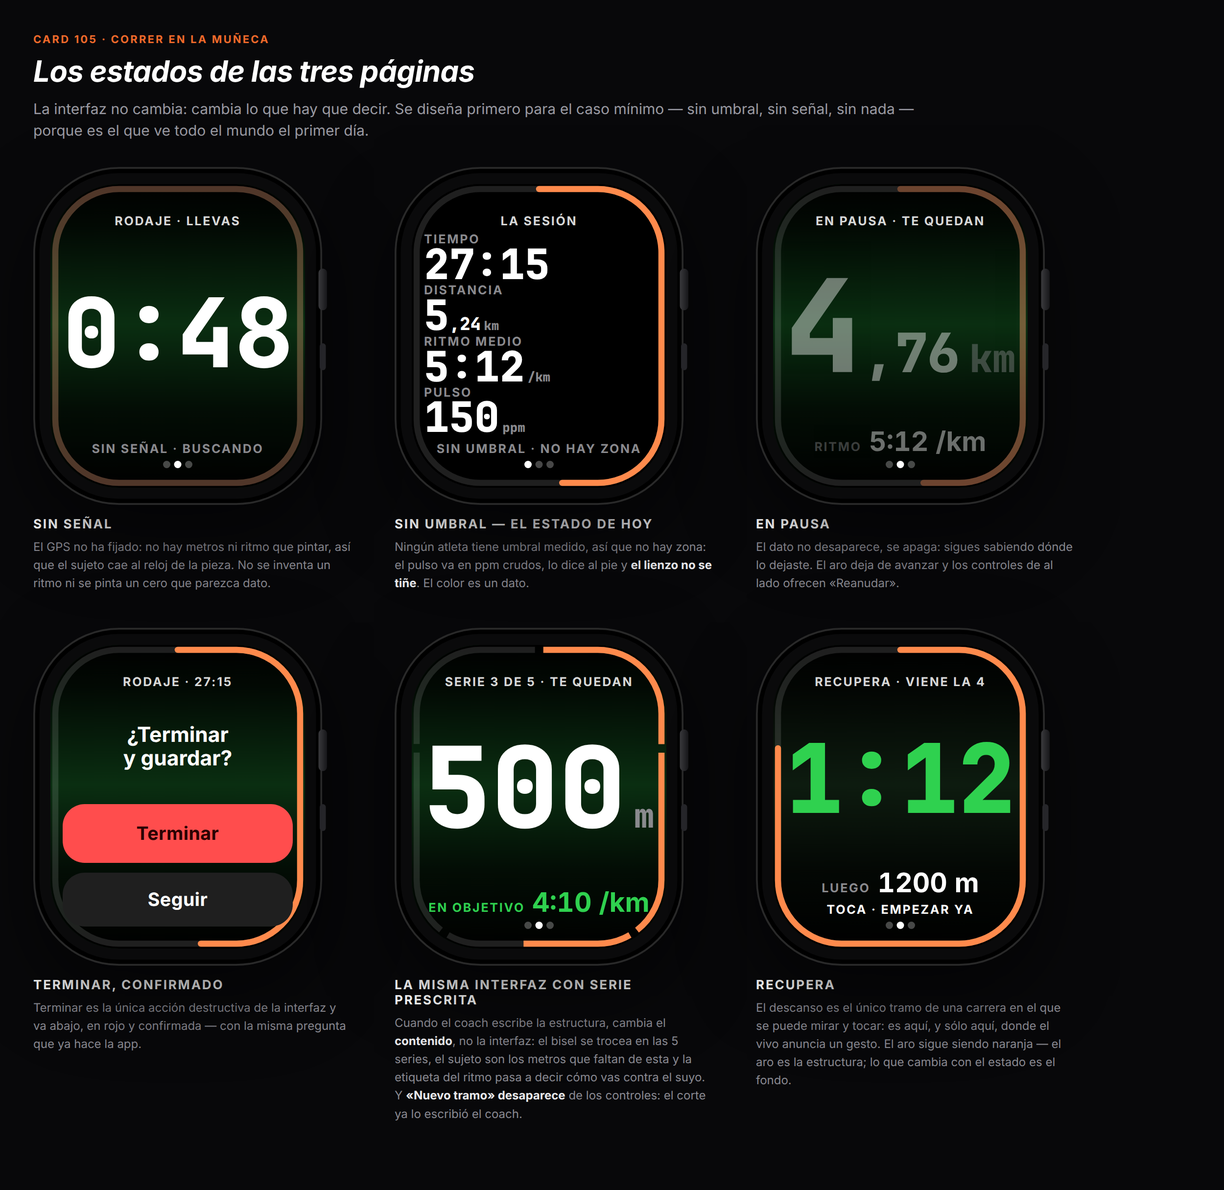
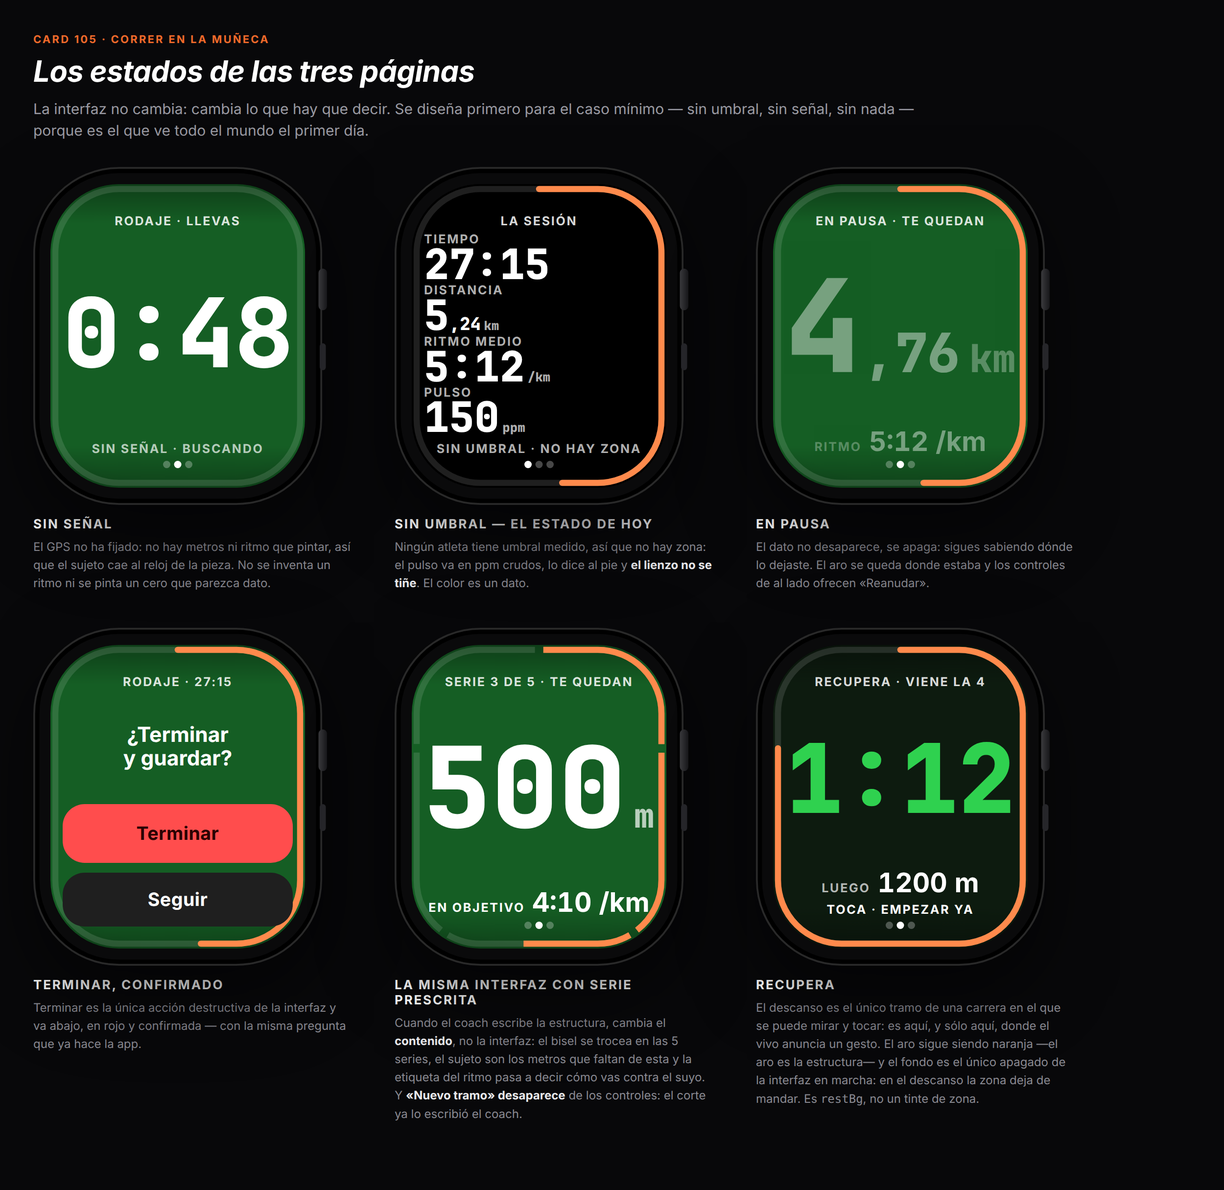
fix(mocks): la zona ES el lienzo — relleno plano al 45 %, no un degradado
Alex: el fondo de zona no se lee. Tenía razón, y mi diagnóstico anterior estaba
al revés: bajé el tinte del 38 % del kit al 22 % cuando lo que apagaba el color
era el DEGRADADO, que va a negro puro arriba y abajo y deja el color vivo sólo
en una franja estrecha del centro — justo donde va el numeral, que la tapa.
Bajar el porcentaje encima de eso apagó el único sitio donde el color quedaba.

Ahora: relleno PLANO al 45 % y del negro queda una viñeta (esquinas, donde la
curva del bisel se come el lienzo, y las dos bandas de versales).

El 45 % es un techo medido, no un gusto: lo pone el ámbar de la Z4, porque el
aro del bisel tiene que mantener 3:1 contra el lienzo y ahí se queda en 3,09
(al 55 % cae a 2,30 y el aro desaparece). Con ese mismo 45 % el numeral blanco
va de 7,9:1 sobre el verde a 12,3:1 sobre el azul. Las cinco zonas van ahora en
una tira de la primera lámina, porque el criterio era que se distinguieran de un
vistazo y las capturas sólo enseñan la Z3 del escenario: sin verlas no hay forma
de comprobarlo.

Un lienzo con color obliga a tres arreglos que antes no hacían falta, porque
todo estaba calibrado contra el negro. No son decisiones nuevas: son lo que la
zona fuerte deja ilegible.

- el gris #8A8A8E de WatchTheme se queda en 2,29:1 sobre la Z3 y la unidad y las
  versales dejan de leerse. Un gris fijo no puede vivir sobre un fondo que
  cambia de color: el cromo pasa a blanco con alfa (0,70), ~5,5:1 contra las
  cinco zonas y 10,5:1 sobre negro.
[…]

diff --git a/docs/mocks/tools/reloj-correr.py b/docs/mocks/tools/reloj-correr.py
@@ -30,7 +30,13 @@ import time
 BG = "#000000"
 SURFACE_RAISED = "#1F1F1F"
 INK = "#FFFFFF"
-DIM = "#8A8A8E"
+# El gris secundario de WatchTheme (#8A8A8E) vale sobre negro y NO vale sobre un
+# lienzo teñido: sobre el verde de la Z3 al 45 % se queda en 2,29:1 y la unidad y
+# las versales dejan de leerse — el mismo «no se lee de un vistazo» que motivó el
+# relleno fuerte. Un gris fijo no puede vivir sobre un fondo que cambia de color,
+# así que el cromo pasa a ser BLANCO con alfa: mantiene 5,5:1 contra las cinco
+# zonas y 10,5:1 sobre negro, sin dejar de pesar menos que el dato (§4).
+DIM = "rgba(255,255,255,0.70)"
 ORANGE = "#F06A2A"       # la acción
 ORANGE_SOFT = "#FF8A4C"  # el aro: pasa el 3:1 contra las cinco zonas, el de marca no
 ZONE_GREEN = "#2FD14F"   # Z3 «medio» — la única zona que sale en estas láminas
@@ -61,21 +67,32 @@ VERSALES_TRACKING = 1.1
 AVANCE_VERSAL = 0.72
 SEGUNDO_BASE = 22
 
-# El degradado que mete el tinte en una banda central: negro donde corre el aro
-# y negro al pie, donde viven las versales.
+# EL RELLENO DE ZONA — plano y fuerte, no una banda que se desvanece.
+#
+# La primera versión de estas láminas bajó el tinte del 38 % del kit al 22 %
+# porque «no se leía como un tinte ambiente». Diagnóstico equivocado: lo que no
+# dejaba leer la zona era el DEGRADADO, que iba a negro puro arriba y abajo y
+# dejaba el color vivo sólo en una franja estrecha del centro — justo donde va el
+# numeral, que lo tapa. Bajar el porcentaje encima de eso apagó el único sitio
+# donde el color aún existía. Se corrige por la raíz: relleno PLANO al 45 % y el
+# negro reducido a una viñeta.
+#
+# Por qué 45 y no más: el techo NO es de gusto, lo pone el ámbar de la Z4. El aro
+# del bisel (#FF8A4C) tiene que mantener 3:1 contra el lienzo porque es un
+# elemento gráfico que hay que entender, y sobre ámbar al 45 % se queda en 3,09:1
+# — al 55 % cae a 2,30 y el aro desaparece. Con ese mismo 45 %, el numeral blanco
+# va de 7,9:1 (verde) a 12,3:1 (azul), y las cinco zonas quedan a un vistazo:
+# Z2 #133173 · Z3 #159438 · Z4 #73511D · Z5 #732222 · Z1 #3E3E40.
+TINTE_MAX = 45
+
+# La viñeta: oscurece las esquinas (donde la curva del bisel se come el lienzo) y
+# las dos bandas de versales, y deja el cuerpo de la pantalla PLANO. Es lo que
+# queda del degradado de antes: contraste donde hace falta, sin apagar el color.
 DEGRADADO = (
-    "linear-gradient(180deg,#000 0%,rgba(0,0,0,0.80) 14%,"
-    "rgba(0,0,0,0) 46%,rgba(0,0,0,0.72) 74%,#000 100%)"
+    "radial-gradient(128% 96% at 50% 46%,rgba(0,0,0,0) 54%,rgba(0,0,0,0.34) 100%),"
+    "linear-gradient(180deg,rgba(0,0,0,0.34) 0%,rgba(0,0,0,0) 13%,"
+    "rgba(0,0,0,0) 86%,rgba(0,0,0,0.30) 100%)"
 )
-# El kit fija TINTE_MAX = 38 %, y a pantalla completa eso NO es «un tinte
-# ambiente, oscuro y saturado apenas» (CONTRATO-UI §10.1): el verde de la Z3 a
-# 38 % sobre negro da #12501E, que es un fondo verde con letras encima y encima
-# se parece al verde del propio dato de zona, así que el color deja de
-# discriminar. A 22 % el fondo sigue diciendo la zona de reojo y el numeral
-# sigue siendo lo único claro de la pantalla. Es un hallazgo de esta lámina, y
-# está anotado en la PR: el 38 % del kit nunca se había mirado a tamaño real,
-# porque las nueve vistas del doble van todas sin ancla.
-TINTE_MAX = 22
 
 AVANCE_SANS = {":": 0.32, ".": 0.30, ",": 0.30, " ": 0.28, "·": 0.34,
                "×": 0.60, "—": 0.62, "-": 0.35, "/": 0.40, "~": 0.60}
@@ -276,6 +293,17 @@ def aro_continuo(queda: float, *, color: str = ORANGE_SOFT) -> str:
     )
 
 
+def aro_vacio() -> str:
+    """Sólo el carril: no se sabe cuánto queda, y no se insinúa un progreso.
+
+    Antes esto era un aro naranja al 22 % de alfa, que sobre negro se leía como
+    «apagado» y sobre un lienzo teñido no se lee de ninguna manera: un traslúcido
+    calibrado contra el negro deja de significar nada en cuanto el fondo tiene
+    color. El carril dice lo mismo y no depende del fondo.
+    """
+    return _svg(f'<path d="{TRAZADO}" fill="none" stroke="{VIA}" stroke-width="{GROSOR}"/>')
+
+
 def aro_segmentado(total: int, hechas: int, fraccion: float) -> str:
     hueco, paso = 7, PERIMETRO / total
     largo = paso - hueco
@@ -380,8 +408,12 @@ def pagina_datos(*, con_zona: bool = True, activa: int = 0) -> str:
             _fallo(f"la fila «{etiqueta}» mide {ancho:.0f} pt sobre {ANCHO_UTIL}")
         marca = ""
         if chip:
+            # El nombre de la zona va en BLANCO, no en el color de la zona: el
+            # lienzo ya ES ese color, así que escribirlo encima de sí mismo lo
+            # borra (verde sobre verde = 3,9:1 y de la misma tinta). El color lo
+            # dice el fondo; la etiqueta dice las palabras.
             marca = (f'<span style="font-family:var(--sans);font-size:11.5px;font-weight:800;'
-                     f'letter-spacing:0.3px;color:{ZONE_GREEN};margin-left:8px;'
+                     f'letter-spacing:0.3px;color:{INK};margin-left:8px;'
                      f'padding-bottom:2px">{chip}</span>')
         html.append(
             f'<div style="width:100%;display:flex;flex-direction:column;align-items:flex-start">'
@@ -398,22 +430,24 @@ def pagina_datos(*, con_zona: bool = True, activa: int = 0) -> str:
 
 def pagina_vivo(*, contexto: str = "rodaje · te quedan", sujeto: str = "4,76",
                 unidad: str = "km", ritmo: str = "5:12 /km", nota: str = "",
-                juicio: str = "", tono_juicio: str = ZONE_GREEN,
-                opacidad: float = 1.0, activa: int = 1) -> str:
+                juicio: str = "", opacidad: float = 1.0, activa: int = 1) -> str:
     """Lo que FALTA de la pieza que tienes delante. Cero controles: corriendo no se toca.
 
     El JUICIO ocupa el hueco de la etiqueta, no una tercera línea ni un apéndice
     del valor: sin objetivo la etiqueta dice «ritmo» y con objetivo dice cómo vas.
-    Así el veredicto es una palabra Y un color, y sigue habiendo un solo segundo
-    nivel — «ritmo 4:10 /km · En objetivo» mide 195 pt y se recortaba.
+    Así sigue habiendo un solo segundo nivel — «ritmo 4:10 /km · En objetivo» mide
+    195 pt y se recortaba.
+
+    Y el veredicto es una PALABRA, no un color: mientras el lienzo lleve la zona de
+    pulso, en esta pantalla no puede hablar en color nada más. Un «en objetivo»
+    verde sobre un lienzo verde no se lee, y con la zona en ámbar o en rojo el
+    mismo verde diría dos cosas a la vez.
     """
     alto = alto_sujeto(sujeto, unidad, segundo=bool(ritmo), nota=bool(nota), puntos=True)
     seg = ""
     if ritmo:
-        seg = segundo_nivel(ritmo, etiqueta=juicio or "ritmo",
-                            color=tono_juicio if juicio else INK,
-                            tono_etiqueta=tono_juicio if juicio else DIM,
-                            opacidad=opacidad)
+        seg = segundo_nivel(ritmo, etiqueta=juicio or "ritmo", color=INK,
+                            tono_etiqueta=INK if juicio else DIM, opacidad=opacidad)
     return (versales(contexto, tono="rgba(255,255,255,0.85)")
             + '<span style="flex:1"></span>'
             + numeral(sujeto, unidad, alto=alto, opacidad=opacidad)
@@ -438,8 +472,13 @@ def pagina_controles(*, pausado: bool = False, activa: int = 2) -> str:
     botones = [
         _boton("Reanudar" if pausado else "Pausar", alto=altos[0], fondo=ORANGE, color="#160800"),
         _boton("Nuevo tramo", alto=altos[1], fondo=SURFACE_RAISED, color=INK),
-        _boton("Terminar", alto=altos[2], fondo="rgba(255,77,77,0.14)", color=ZONE_RED,
-               borde="box-shadow:inset 0 0 0 1.5px rgba(255,77,77,0.45);"),
+        # Los tres botones son OPACOS. El rojo traslúcido de la primera versión
+        # (14 % sobre negro) dejaba pasar el lienzo: sobre la zona en verde el
+        # botón salía oliva y su texto rojo se quedaba en 1,32:1. Estos dos hexes
+        # son exactamente lo que aquel traslúcido daba sobre negro, así que el
+        # botón se ve igual que antes y ahora no depende de la zona.
+        _boton("Terminar", alto=altos[2], fondo="#240B0B", color=ZONE_RED,
+               borde="box-shadow:inset 0 0 0 1.5px #732323;"),
     ]
     return (versales("en pausa · 27:15" if pausado else "rodaje · 27:15",
                      tono="rgba(255,255,255,0.85)")
@@ -541,6 +580,31 @@ def render(html: str, salida: str, ancho: int, alto: int, escala: int = 3) -> No
 ARO_RODAJE = aro_continuo(QUEDA)
 
 
+def tira_zonas() -> str:
+    """Las cinco zonas con el relleno de verdad, para poder juzgar de un vistazo.
+
+    Está aquí porque el criterio de la card es que Z2/Z3/Z4 se distingan corriendo,
+    y las láminas enseñan sólo la Z3 del escenario: sin la tira no hay forma de
+    comprobarlo. Es una leyenda, no una pantalla.
+    """
+    zonas = [(1, "#8A8A8E", "muy suave"), (2, "#2A6CFF", "suave"), (3, ZONE_GREEN, "medio"),
+             (4, "#FFB340", "fuerte"), (5, ZONE_RED, "máximo")]
+    chips = []
+    for n, hue, nombre in zonas:
+        relleno = f"color-mix(in srgb,{hue} {TINTE_MAX}%,{BG})"
+        chips.append(
+            f'<div style="width:108px">'
+            f'<div style="height:52px;border-radius:14px;background:{relleno};'
+            f'display:flex;align-items:center;justify-content:center;gap:7px">'
+            f'<span style="font-family:var(--mono);font-size:19px;font-weight:800;color:#fff">'
+            f'Z{n}</span>'
+            f'<span style="width:16px;height:3px;border-radius:2px;background:{ORANGE_SOFT}"></span>'
+            f'</div>'
+            f'<div class="gesto" style="margin-top:5px;text-align:center">{nombre}</div></div>'
+        )
+    return (f'<div style="display:flex;align-items:flex-start;gap:10px">{"".join(chips)}</div>')
+
+
 def lamina_hoja() -> tuple[str, int, int]:
     esc = 1.5
     cols = []
@@ -579,7 +643,21 @@ def lamina_hoja() -> tuple[str, int, int]:
 <div style="margin-top:26px;display:flex;align-items:flex-start;gap:22px">
  {cols[0]}{flecha}{cols[1]}{flecha}{cols[2]}
 </div>
-<div class="pie" style="margin-top:26px">
+<div style="margin-top:26px;display:flex;gap:34px;align-items:flex-start">
+ <div>{tira_zonas()}</div>
+ <div class="pie" style="max-width:640px">
+  <b>El relleno es la zona, plano y al 45 %.</b> El tope no es de gusto: lo pone el ámbar de la
+  Z4, porque el aro naranja tiene que mantener 3:1 contra el lienzo y ahí se queda en 3,09
+  (al 55 % cae a 2,30 y el aro desaparece). Con ese mismo 45 % el numeral blanco va de 7,9:1
+  sobre el verde a 12,3:1 sobre el azul. Del degradado de antes queda una <b>viñeta</b>: negro
+  en las esquinas, donde la curva del bisel se come el lienzo, y en las dos bandas de versales.
+  <br/><br/>
+  Y mientras el lienzo lleve la zona, <b>en esta pantalla no habla en color nada más</b>: el
+  veredicto del ritmo es una palabra, porque un «en objetivo» verde sobre un lienzo verde no se
+  lee y sobre uno ámbar diría dos cosas a la vez.
+ </div>
+</div>
+<div class="pie" style="margin-top:22px">
  <b>De dónde salen los números.</b> Rodaje de 10 km a los 5.240 m: ejecución 145 del atleta 66
  (10.000 m a 5:12/km, FC media 150 ppm). El tiempo y los metros que faltan se derivan de ahí.
  <b>La zona es la única excepción</b>, y va marcada: sale de un umbral <i>medido</i> de 168 ppm
@@ -590,7 +668,7 @@ def lamina_hoja() -> tuple[str, int, int]:
  <b>El aro</b> del bisel es lo que queda del rodaje; cuesta cero altura de contenido.
  Lienzo real 208 × 248 pt, útil 188 × 212 — las medidas de estas capturas salen de las mismas
  constantes que hace cumplir <code>kit-watch/modelo.ts</code>, no del ojo.
-</div>""", 1420), 1420, 950)
+</div>""", 1420), 1420, 1090)
 
 
 def lamina_pagina(titulo: str, bajada: str, pagina: str, notas: list[tuple[str, str]],
@@ -618,15 +696,15 @@ def lamina_estados() -> tuple[str, int, int]:
                                   ritmo="", nota="sin señal · buscando"),
          "El GPS no ha fijado: no hay metros ni ritmo que pintar, así que el sujeto cae al reloj "
          "de la pieza. No se inventa un ritmo ni se pinta un cero que parezca dato.",
-         ZONE_GREEN, "", aro_continuo(1.0, color="rgba(255,138,76,0.22)")),
+         ZONE_GREEN, "", aro_vacio()),
         ("Sin umbral — <b>el estado de hoy</b>", pagina_datos(con_zona=False, activa=0),
          "Ningún atleta tiene umbral medido, así que no hay zona: el pulso va en ppm crudos, "
          "lo dice al pie y <b>el lienzo no se tiñe</b>. El color es un dato.",
          None, "", ARO_RODAJE),
         ("En pausa", pagina_vivo(opacidad=0.42, contexto="en pausa · te quedan"),
-         "El dato no desaparece, se apaga: sigues sabiendo dónde lo dejaste. El aro deja de "
-         "avanzar y los controles de al lado ofrecen «Reanudar».",
-         ZONE_GREEN, "", aro_continuo(QUEDA, color="rgba(255,138,76,0.35)")),
+         "El dato no desaparece, se apaga: sigues sabiendo dónde lo dejaste. El aro se queda "
+         "donde estaba y los controles de al lado ofrecen «Reanudar».",
+         ZONE_GREEN, "", ARO_RODAJE),
         ("Terminar, confirmado", pagina_confirmar(),
          "Terminar es la única acción destructiva de la interfaz y va abajo, en rojo y "
          "confirmada — con la misma pregunta que ya hace la app.",
@@ -641,8 +719,9 @@ def lamina_estados() -> tuple[str, int, int]:
          ZONE_GREEN, "", aro_segmentado(5, 2, 700 / 1200)),
         ("Recupera", pagina_recupera(),
          "El descanso es el único tramo de una carrera en el que se puede mirar y tocar: es "
-         "aquí, y sólo aquí, donde el vivo anuncia un gesto. El aro sigue siendo naranja — "
-         "el aro es la estructura; lo que cambia con el estado es el fondo.",
+         "aquí, y sólo aquí, donde el vivo anuncia un gesto. El aro sigue siendo naranja "
+         "—el aro es la estructura— y el fondo es el único apagado de la interfaz en marcha: "
+         "en el descanso la zona deja de mandar. Es <code>restBg</code>, no un tinte de zona.",
          None, REST_BG, aro_continuo(72 / 90)),
     ]
     celdas = "".join(
@@ -684,7 +763,11 @@ def main() -> None:
                                 "una línea en anunciarlo — y esos 15 pt vuelven al número."),
              ("El aro", "Lo que queda del rodaje, trazado sobre el borde. Es el sitio más barato "
                         "del reloj: ahí no cabe texto."),
-             ("El tinte", "Tu zona de pulso tiñe el lienzo, siempre — y sin umbral no hay tinte.")]), 3),
+             ("El relleno", "Tu zona de pulso <b>es</b> el lienzo: relleno plano al 45 %, no un "
+                            "degradado que se va a negro. Del negro queda una viñeta en las "
+                            "esquinas y en las bandas de versales. Sin umbral no hay relleno y el "
+                            "fondo es negro de verdad — las dos cosas, en la lámina de "
+                            "estados.")]), 3),
         ("reloj-correr-datos.png", lamina_pagina(
             "La página de los datos",
             "Cuatro cifras de la sesión de un vistazo: es la respuesta a «¿cómo va la carrera?», "

diff --git a/docs/DECISIONS.md b/docs/DECISIONS.md
@@ -24,13 +24,23 @@ Registro de decisiones estructurales del dominio y de la arquitectura.
 
 **El mapa de bloques deja de ser una página del vivo.** Las tres páginas ocupan los dos deslizamientos que hay, y el mapa hoy vive en la página 0. Saltar de bloque es una **decisión**, así que baja a controles con las demás — donde ya está hoy `Siguiente bloque`. Cuando aparece ese cuarto botón la página rueda con la corona: es la única de la interfaz donde eso vale, porque a ella se llega parado.
 
-**Hallazgo de token, anotado porque afecta a las nueve vistas del reloj:** `TINTE_MAX = 38 %` del kit **no es** «un tinte ambiente, oscuro y saturado apenas» (CONTRATO-UI §10.1) cuando cubre la pantalla entera — el verde de Z3 a 38 % sobre negro da `#12501E`, que es un fondo verde con letras encima y encima se parece al verde con el que se escribe el propio dato de zona, así que el color deja de discriminar. Estas láminas tiñen al **22 %**. El 38 % nunca se había mirado a tamaño real porque las nueve vistas del doble van todas sin ancla (`tinte={null}`), que es el estado real de los 8 atletas.
+**LA ZONA ES EL LIENZO, PLANA Y AL 45 % — y lo que la estaba apagando era el degradado, no el porcentaje.** Corrección de la primera versión de estas láminas, que bajó el tinte del 38 % del kit al 22 % «porque no leía como un tinte ambiente» (CONTRATO-UI §10.1). Diagnóstico equivocado: el `DEGRADADO` del kit va a **negro puro arriba y abajo** y deja el color vivo sólo en una franja estrecha del centro — justo donde va el numeral, que la tapa. Bajar el porcentaje encima de eso apagó el único sitio donde el color aún existía. Se arregla por la raíz: **relleno plano al 45 %** y del negro queda una **viñeta** (esquinas, donde la curva del bisel se come el lienzo, y las dos bandas de versales).
 
-**El veredicto del ritmo ocupa el hueco de la ETIQUETA del segundo nivel**, no una tercera línea ni un apéndice del valor: sin objetivo la etiqueta dice «ritmo» y con objetivo dice cómo vas, con su color. Medido en el navegador, `en objetivo 4:10 /km` ocupa 180,6 de los 188 pt útiles — es la línea más apretada de la interfaz, y por eso el veredicto no puede además llevar la banda del objetivo (`4:30–4:45`). La versión con el veredicto pegado al valor medía 195 pt y se recortaba por los dos lados.
+**El 45 % es un techo medido, no un gusto:** lo pone el **ámbar de la Z4**, porque el aro del bisel (`#FF8A4C`) tiene que mantener **3:1** contra el lienzo —es un elemento gráfico que hay que entender— y sobre ámbar al 45 % se queda en **3,09:1**; al 55 % cae a **2,30** y el aro desaparece. Con ese mismo 45 % el numeral blanco va de **7,9:1** (verde) a **12,3:1** (azul), y las cinco zonas se distinguen a un vistazo: Z1 `#3E3E40` · Z2 `#133173` · Z3 `#159438` · Z4 `#73511D` · Z5 `#732222`.
+
+**Y de un lienzo con color se derivan tres reglas que antes no hacían falta**, porque todo se había calibrado contra el negro:
+
+1. **El gris secundario no puede ser un hex.** `#8A8A8E` (el `dim` de WatchTheme) sobre la Z3 al 45 % se queda en **2,29:1** y la unidad y las versales dejan de leerse. El cromo pasa a ser **blanco con alfa** (0,70): mantiene ~5,5:1 contra las cinco zonas y 10,5:1 sobre negro, y sigue pesando menos que el dato (§4).
+2. **Mientras el lienzo lleve la zona, en esa pantalla no habla en color nada más.** El veredicto del ritmo es una **palabra**, no un color: un «en objetivo» verde sobre lienzo verde no se lee (3,9:1 y de la misma tinta), y sobre un lienzo ámbar el mismo verde diría dos cosas a la vez. Por lo mismo, el nombre de la zona en la página de datos va en blanco — el color lo dice el fondo, la etiqueta dice las palabras.
+3. **Ningún traslúcido de superficie.** El «Terminar» era un rojo al 14 % de alfa: sobre la zona en verde el botón salía oliva y su texto se quedaba en **1,32:1**. Los tres botones son opacos, con los hexes exactos que aquel traslúcido daba sobre negro (`#240B0B` + borde `#732323`). Igual el aro «apagado» del estado sin señal, que pasa a ser el carril del bisel: un alfa calibrado contra el negro deja de significar nada en cuanto el fondo tiene color.
+
+**El veredicto del ritmo ocupa el hueco de la ETIQUETA del segundo nivel**, no una tercera línea ni un apéndice del valor: sin objetivo la etiqueta dice «ritmo» y con objetivo dice cómo vas. Medido en el navegador, `en objetivo 4:10 /km` ocupa 180,6 de los 188 pt útiles — es la línea más apretada de la interfaz, y por eso el veredicto no puede además llevar la banda del objetivo (`4:30–4:45`). La versión con el veredicto pegado al valor medía 195 pt y se recortaba por los dos lados.
+
+**Lo que sigue apagado a propósito:** el fondo de la página de recuperación es `restBg` (`#0D1B0F`), no un relleno de zona — en el descanso la zona deja de mandar, y es el único fondo apagado de la interfaz en marcha. Y sin ancla de FC no hay relleno ninguno: fondo negro de verdad, que es el estado de los 8 atletas de hoy.
 
 **Desviación de proceso, declarada:** la decisión del 2026-07-28 dice que un mockup nuevo de UI de la app **nace como pantalla `propuesta` del doble**. Esta card pidió explícitamente **PNG en `docs/mocks/`, cero código** — y con razón práctica: la preview del doble vive detrás del Clerk de desarrollo y un enlace que no se abre no es una entrega. Lo que se conserva de la regla es que el PNG **no se dibuja a ojo**: `docs/mocks/tools/reloj-correr.py` calcula cada medida con las mismas constantes que hace cumplir `kit-watch/modelo.ts` y aborta si algo se sale del lienzo. Cuando esto se lleve a Swift, le toca su pantalla del doble.
 
-**En consecuencia, no hacer:** no poner el vivo de primera página ni mover los controles de la derecha; no pintar un botón en las páginas de vivo (cada botón son 52 pt, el 21 % del lienzo, y por eso hoy el héroe se queda en 54 px); no ofrecer «Nuevo tramo» dentro de una estructura prescrita ni usarlo como segundo nombre de `Tramo hecho`; no meter la zona como fila propia de la página de datos (es lo que *significa* el pulso, va con él); no pintar zona ni tinte sin umbral; y no dar por bueno un ancho de la muñeca sin medirlo — el estimador del kit está calibrado para SF Pro y se queda corto con cualquier otra fuente.
+**En consecuencia, no hacer:** no poner el vivo de primera página ni mover los controles de la derecha; no pintar un botón en las páginas de vivo (cada botón son 52 pt, el 21 % del lienzo, y por eso hoy el héroe se queda en 54 px); no ofrecer «Nuevo tramo» dentro de una estructura prescrita ni usarlo como segundo nombre de `Tramo hecho`; no meter la zona como fila propia de la página de datos (es lo que *significa* el pulso, va con él); no pintar zona ni relleno sin umbral; **no devolver el relleno de zona a un degradado que se va a negro, ni subirlo del 45 % (ahí muere el aro sobre ámbar); no escribir sobre el lienzo teñido con un gris fijo, con un traslúcido ni con un segundo código de color**; y no dar por bueno un ancho de la muñeca sin medirlo — el estimador del kit está calibrado para SF Pro y se queda corto con cualquier otra fuente.
 
 ---
 

diff --git a/FOCUS.md b/FOCUS.md
@@ -40,7 +40,13 @@ que hoy se come el botón grande vuelven al número.
 
 **Lo único que no existe hoy es «Nuevo tramo»:** cierra lo que llevas medido y empieza
 de cero sin tocar la prescripción, y sólo se ofrece cuando los cortes son del atleta.
-Razonamiento, el hallazgo del tinte al 38 % y lo que NO se toca: `docs/DECISIONS.md`
+
+**La zona ES el lienzo:** relleno plano al 45 % (techo medido: por encima muere el aro
+sobre el ámbar de la Z4) y del negro queda una viñeta. Lo que apagaba la zona era el
+degradado del kit, que va a negro arriba y abajo y deja el color justo donde el numeral
+lo tapa — no el porcentaje. De ahí salen tres reglas para cualquier lienzo con color:
+el cromo es blanco con alfa y no un gris fijo, nada más habla en color, y ninguna
+superficie es traslúcida. Razonamiento y lo que NO se toca: `docs/DECISIONS.md`
 (entrada del 2026-08-29).
 
 **Pendiente:** el visto bueno de Alex antes de llevar nada a Swift.
